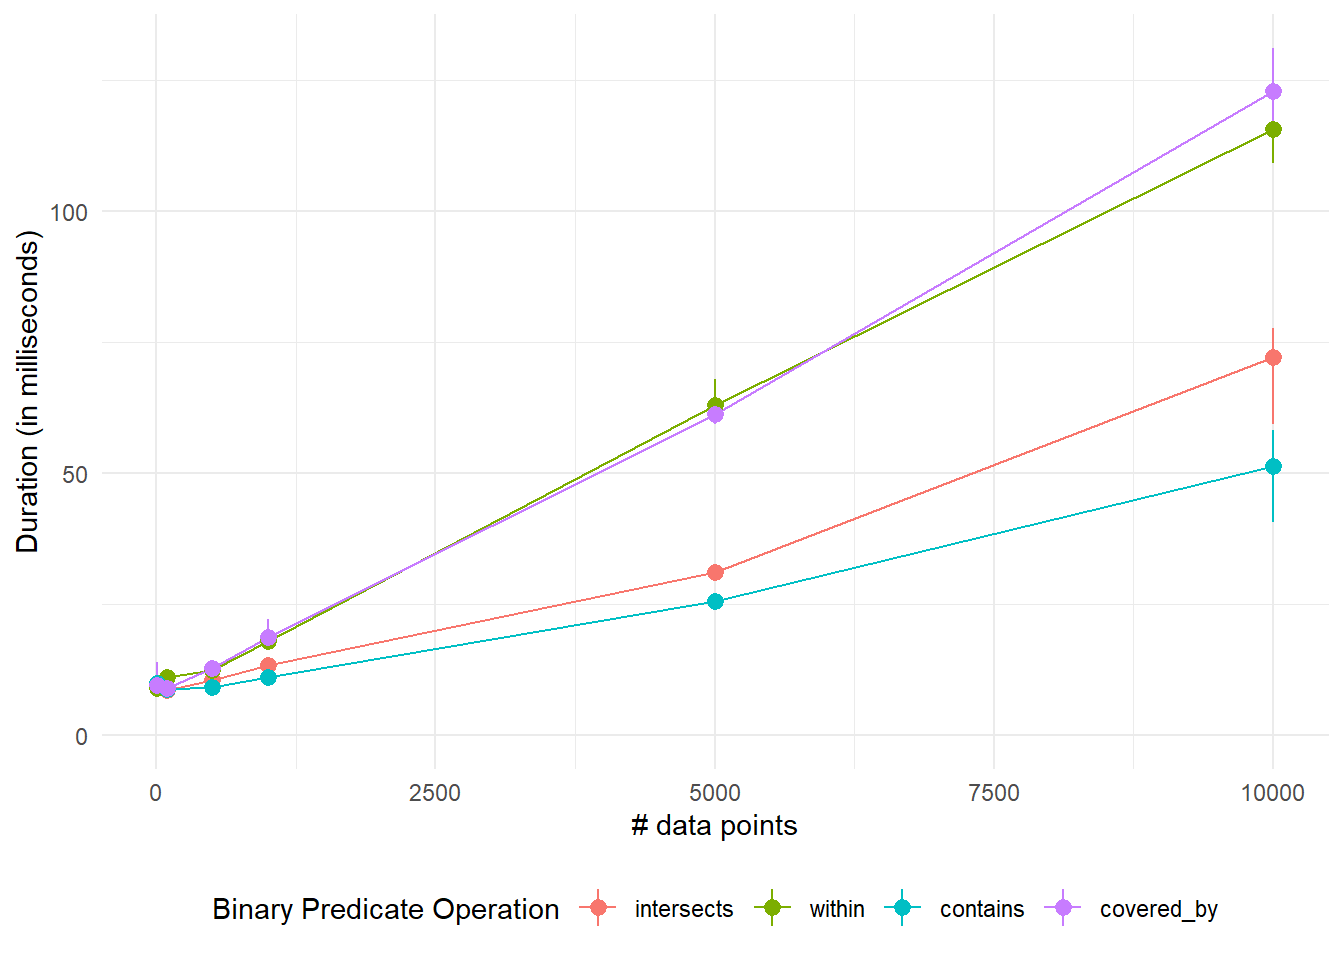
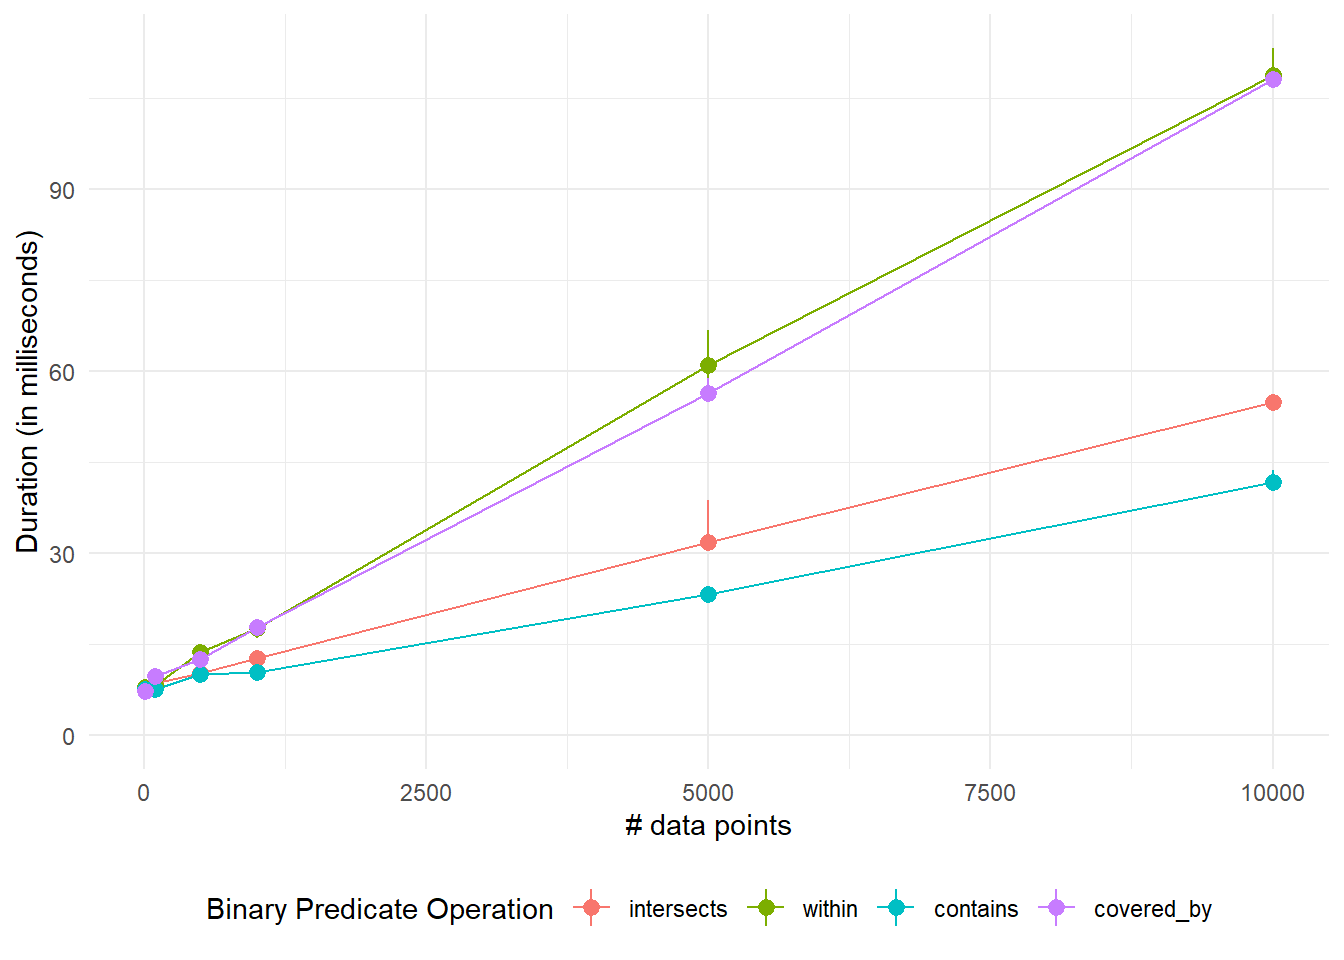
fixing mistakes

diff --git a/content/post/2019_05_19_benchmarking_binary_predicates.html b/content/post/2019_05_19_benchmarking_binary_predicates.html
@@ -46,10 +46,10 @@ ggplot()  + geom_sf(data = monte_generoso)+ geom_sf(data = points_filter1) + the
   times = 100
 )
 
+mbm$time &lt;- microbenchmark:::convert_to_unit(mbm$time,&quot;t&quot;)
 
 mbm &lt;- mbm %&gt;%
   mutate(
-    mbm$time &lt;- microbenchmark:::convert_to_unit(mbm$time,&quot;t&quot;),
     expr = fct_reorder(expr,time,median,.desc = TRUE)
   )
 
@@ -60,7 +60,7 @@ ggplot(mbm, aes(time,expr,fill = ..x..)) +
   labs(y = &quot;Function&quot;,x = paste0(&quot;Duration (in &quot;,attr(mbm$time,&quot;unit&quot;),&quot;)&quot;)) +
   theme(legend.position=&quot;none&quot;) +
   theme_minimal()</code></pre>
-<pre><code>## Picking joint bandwidth of 338000</code></pre>
+<pre><code>## Picking joint bandwidth of 0.385</code></pre>
 <p><img src="/post/2019_05_19_benchmarking_binary_predicates_files/figure-html/unnamed-chunk-3-1.png" width="672" /></p>
 <p>What we can see in the plot above, is that <code>st_within</code> sometimes took nearly 50ms, but usually around 18ms. This is still slower than both <code>st_contains</code> (around 11ms) and <code>st_within</code> (around 12ms). The question now is, how do the functions scale? Some functions are better on larger datasets than on smaller ones. So I’ll test this by raising the number of points in <code>point</code>.</p>
 <pre class="r"><code>mbm2 &lt;- map_dfr(c(10,100,500,1000,5000,10000),function(n_points){
@@ -79,6 +79,7 @@ ggplot(mbm, aes(time,expr,fill = ..x..)) +
 })</code></pre>
 <p>Since I now have a new dimension in my data (number of points) don’t want to use the violin plot from above, but make my plot more compact using a line plot. In order to also visualize the distribution of the data, I add a line range indicating the 1. and 3. Quartiles.</p>
 <pre class="r"><code>mbm2$time &lt;- microbenchmark:::convert_to_unit(mbm2$time,&quot;t&quot;)
+
 
 mbm2 %&gt;%
   group_by(expr,n) %&gt;%
